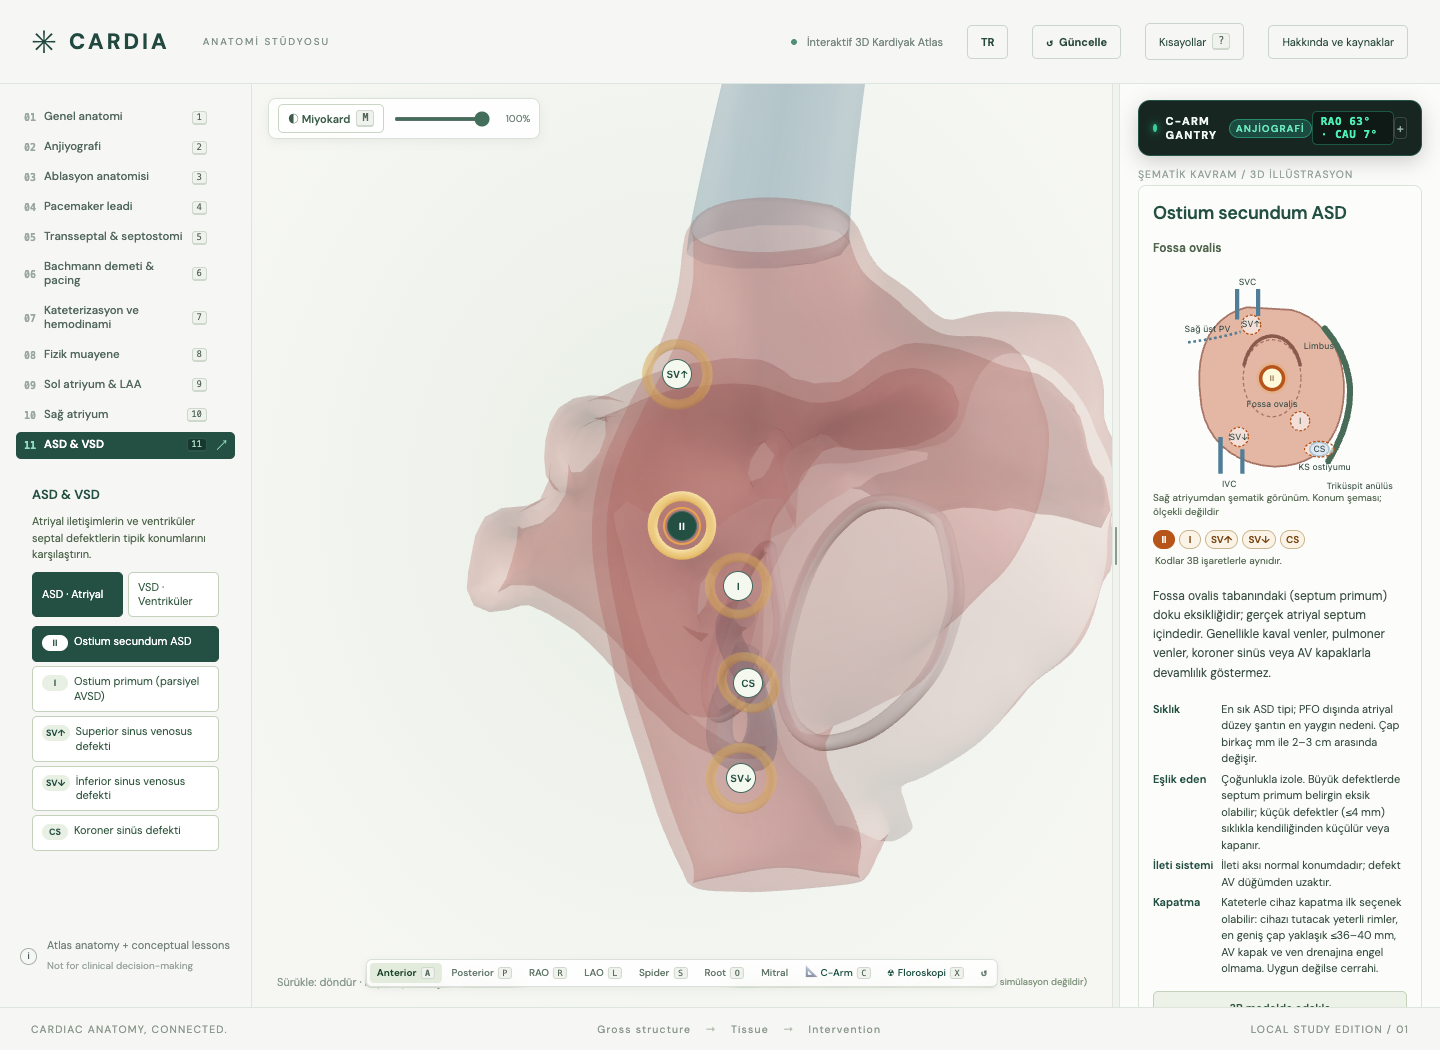
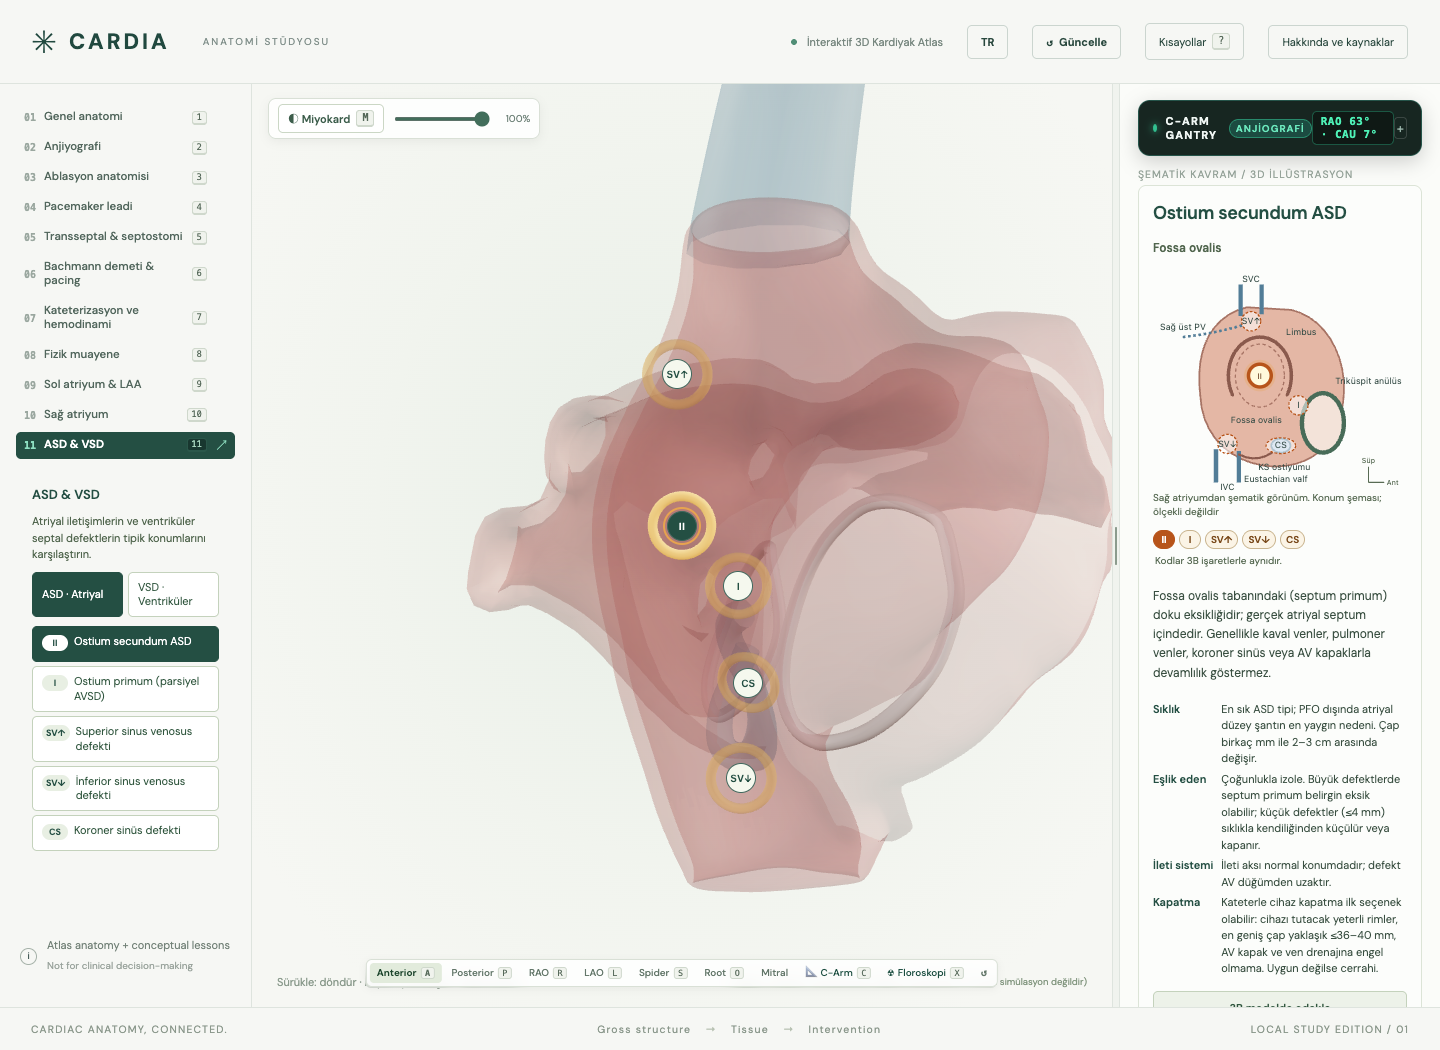
fix: correct landmark layout of the ASD and VSD septal maps
Atrial map (right lateral RA view, superior up, anterior right): tricuspid
orifice drawn anteroinferior inside the atrium instead of an arc outside it
reaching SVC level; CS ostium between the IVC and the tricuspid orifice one
septal isthmus from it; limbus a horseshoe around the fossa open toward the
IVC; primum defect on the AV valve margin; Eustachian valve and orientation
mark added.

Ventricular map (RV opened from the front): supraventricular crest clasped by
the septomarginal limbs, aortic root behind the membranous septum, moderator
band to the anterior papillary muscle, orientation mark; outlet site above the
crest under the pulmonary valve.

Changed region(s): [[0.8125, 0.2743, 0.9688, 0.4571], [0.9375, 0.4571, 0.9688, 0.4876]]

diff --git a/src/septal-defects-map.js b/src/septal-defects-map.js
@@ -2,21 +2,32 @@ import { DEFECT_TYPES } from './septal-defects-data.js';
 
 const NS = 'http://www.w3.org/2000/svg';
 export const MAP_WORDS = {
-  tr: { ra: 'Sağ atriyumdan şematik görünüm', rv: 'Sağ ventrikülden şematik görünüm', scale: 'Konum şeması; ölçekli değildir', svc: 'SVC', ivc: 'IVC', rupv: 'Sağ üst PV', fossa: 'Fossa ovalis', limbus: 'Limbus', tv: 'Triküspit anülüs', csOstium: 'KS ostiyumu', inlet: 'TV (giriş)', pv: 'Pulmoner kapak', aorta: 'Aort kökü (arkada)', membranous: 'Membranöz', moderator: 'Moderatör bant', trabecular: 'Trabeküler septum' },
-  en: { ra: 'Schematic right atrial view', rv: 'Schematic right ventricular view', scale: 'Location diagram; not to scale', svc: 'SVC', ivc: 'IVC', rupv: 'Right upper PV', fossa: 'Oval fossa', limbus: 'Limbus', tv: 'Tricuspid annulus', csOstium: 'CS ostium', inlet: 'TV (inlet)', pv: 'Pulmonary valve', aorta: 'Aortic root (behind)', membranous: 'Membranous', moderator: 'Moderator band', trabecular: 'Trabecular septum' },
+  tr: { ra: 'Sağ atriyumdan şematik görünüm', rv: 'Sağ ventrikülden şematik görünüm', scale: 'Konum şeması; ölçekli değildir', svc: 'SVC', ivc: 'IVC', rupv: 'Sağ üst PV', fossa: 'Fossa ovalis', limbus: 'Limbus', tv: 'Triküspit anülüs', csOstium: 'KS ostiyumu', eustachian: 'Eustachian valf', sup: 'Süp', ant: 'Ant', inlet: 'TV (giriş)', pv: 'Pulmoner kapak', aorta: 'Aort kökü (arkada)', membranous: 'Membranöz septum', moderator: 'Moderatör bant', trabecular: 'Trabeküler septum', crest: 'Supraventriküler krista', antPap: 'Ön papiller', left: 'Sol' },
+  en: { ra: 'Schematic right atrial view', rv: 'Schematic right ventricular view', scale: 'Location diagram; not to scale', svc: 'SVC', ivc: 'IVC', rupv: 'Right upper PV', fossa: 'Oval fossa', limbus: 'Limbus', tv: 'Tricuspid annulus', csOstium: 'CS ostium', eustachian: 'Eustachian valve', sup: 'Sup', ant: 'Ant', inlet: 'TV (inlet)', pv: 'Pulmonary valve', aorta: 'Aortic root (behind)', membranous: 'Membranous septum', moderator: 'Moderator band', trabecular: 'Trabecular septum', crest: 'Supraventricular crest', antPap: 'Ant. papillary', left: 'Left' },
 };
 
-/** Authored schematic placements (viewBox 0 0 290 248), not measured anatomy. */
+/**
+ * Authored schematic placements (viewBox 0 0 290 248), not measured anatomy.
+ * Atrial map: right lateral view of the opened RA, superior up, anterior to
+ * the right. Fossa central, limbus a horseshoe open toward the IVC, tricuspid
+ * orifice anteroinferior, CS ostium between the IVC and the tricuspid orifice
+ * one septal isthmus from it, primum defect on the AV valve margin.
+ */
 const SITES = {
-  'asd-secundum': { x: 136, y: 119 },
-  'asd-primum': { x: 168, y: 168 },
-  'asd-sinus-superior': { x: 112, y: 58 },
-  'asd-sinus-inferior': { x: 98, y: 186 },
-  'asd-coronary-sinus': { x: 190, y: 200, rx: 17, ry: 9 },
-  'vsd-perimembranous': { x: 128, y: 100 },
+  'asd-secundum': { x: 122, y: 116 },
+  'asd-primum': { x: 166, y: 150 },
+  'asd-sinus-superior': { x: 112, y: 54 },
+  'asd-sinus-inferior': { x: 85, y: 194 },
+  'asd-coronary-sinus': { x: 146, y: 196, rx: 17, ry: 9 },
+  // Ventricular map: RV opened from the front, superior up, patient's left
+  // to the right. Perimembranous between the septomarginal limbs under the
+  // crest (aortic root behind), inlet beneath the septal tricuspid leaflet,
+  // outlet directly under the pulmonary valve above the crest, muscular in
+  // the trabecular septum.
+  'vsd-perimembranous': { x: 128, y: 102 },
   'vsd-muscular': { x: 112, y: 182 },
-  'vsd-inlet': { x: 84, y: 126 },
-  'vsd-outlet': { x: 186, y: 64 },
+  'vsd-inlet': { x: 84, y: 128 },
+  'vsd-outlet': { x: 188, y: 62 },
 };
 
 function svg(tag, attrs, text) {
@@ -29,26 +40,48 @@ function svg(tag, attrs, text) {
 function atrialLandmarks(map, w) {
   const label = (x, y, text, anchor = 'middle') => map.append(svg('text', { x, y, 'text-anchor': anchor }, text));
   map.append(svg('path', { d: 'M107 38 C63 49 48 91 54 139 C56 186 90 218 139 220 C193 219 216 182 218 135 C220 89 194 49 158 41 Z', class: 'defect-map-tissue' }));
-  map.append(svg('path', { d: 'M96 17 L96 52 M120 17 L120 48 M77 186 L77 228 M102 200 L102 228', class: 'defect-map-vessel' }));
-  map.append(svg('path', { d: 'M40 78 Q72 74 100 66', class: 'defect-map-vessel defect-map-vessel-thin' }));
-  map.append(svg('ellipse', { cx: 136, cy: 119, rx: 33, ry: 44, class: 'defect-map-fossa' }));
-  map.append(svg('path', { d: 'M104 104 A33 44 0 0 1 168 104', class: 'defect-map-limbus' }));
-  map.append(svg('path', { d: 'M196 62 Q252 128 200 214', class: 'defect-map-junction' }));
-  map.append(svg('ellipse', { cx: 190, cy: 200, rx: 11, ry: 8, class: 'defect-map-sinus' }));
-  label(108, 13, w.svc); label(87, 243, w.ivc); label(36, 66, w.rupv, 'start'); label(136, 152, w.fossa);
-  label(172, 86, w.limbus, 'start'); label(236, 245, w.tv); label(196, 224, w.csOstium);
+  // Caval veins: SVC superior (slightly posterior), IVC posteroinferior.
+  map.append(svg('path', { d: 'M100 12 L100 48 M124 12 L124 46 M72 200 L72 238 M98 202 L98 238', class: 'defect-map-vessel' }));
+  map.append(svg('path', { d: 'M34 72 Q70 68 104 58', class: 'defect-map-vessel defect-map-vessel-thin' }));
+  // Tricuspid orifice: anteroinferior, inside the atrial outline.
+  map.append(svg('ellipse', { cx: 194, cy: 170, rx: 24, ry: 34, class: 'defect-map-orifice' }));
+  // Oval fossa and its limbus: a horseshoe over the superior, anterior and
+  // posterior margins, open inferiorly toward the IVC.
+  map.append(svg('ellipse', { cx: 122, cy: 116, rx: 28, ry: 36, class: 'defect-map-fossa' }));
+  map.append(svg('path', { d: 'M90.8 138 A36 44 0 1 1 153.2 138', class: 'defect-map-limbus' }));
+  // Eustachian valve guards the IVC mouth and runs toward the CS ostium,
+  // which sits between the IVC and the tricuspid orifice.
+  map.append(svg('path', { d: 'M98 206 Q118 216 136 204', class: 'defect-map-valve' }));
+  map.append(svg('ellipse', { cx: 146, cy: 196, rx: 11, ry: 8, class: 'defect-map-sinus' }));
+  label(112, 9, w.svc); label(85, 247, w.ivc); label(8, 64, w.rupv, 'start'); label(118, 170, w.fossa);
+  label(152, 70, w.limbus, 'start'); label(246, 126, w.tv); label(150, 224, w.csOstium); label(104, 238, w.eustachian, 'start');
+  // Orientation.
+  map.append(svg('path', { d: 'M246 238 L246 220 M246 238 L264 238', class: 'defect-map-axis' }));
+  map.append(svg('text', { x: 246, y: 216, 'text-anchor': 'middle', class: 'defect-map-axis-label' }, w.sup));
+  map.append(svg('text', { x: 267, y: 241, 'text-anchor': 'start', class: 'defect-map-axis-label' }, w.ant));
 }
 
 function ventricularLandmarks(map, w) {
   const label = (x, y, text, anchor = 'middle') => map.append(svg('text', { x, y, 'text-anchor': anchor }, text));
   map.append(svg('path', { d: 'M79 79 Q128 45 192 40 Q236 79 221 149 Q198 216 143 227 Q84 207 59 149 Q48 114 79 79 Z', class: 'defect-map-tissue' }));
-  map.append(svg('path', { d: 'M108 84 Q128 108 132 140 L128 200 M180 70 Q150 100 132 140 M128 175 L205 160', class: 'defect-map-band' }));
-  map.append(svg('ellipse', { cx: 150, cy: 84, rx: 16, ry: 11, class: 'defect-map-fossa' }));
-  map.append(svg('ellipse', { cx: 128, cy: 100, rx: 13, ry: 10, class: 'defect-map-membranous' }));
-  map.append(svg('path', { d: 'M56 134 Q60 84 112 72', class: 'defect-map-junction' }));
+  // Aortic root behind the membranous septum (seen through the crest region).
+  map.append(svg('ellipse', { cx: 128, cy: 92, rx: 27, ry: 19, class: 'defect-map-fossa' }));
+  map.append(svg('ellipse', { cx: 128, cy: 102, rx: 13, ry: 10, class: 'defect-map-membranous' }));
+  // Septomarginal trabeculation: body down the septum, limbs clasping the
+  // supraventricular crest; moderator band to the anterior papillary muscle.
+  map.append(svg('path', { d: 'M104 88 Q126 112 132 140 L128 200 M176 78 Q150 104 132 140 M128 175 L204 162', class: 'defect-map-band' }));
+  map.append(svg('path', { d: 'M104 88 Q140 60 176 78', class: 'defect-map-crest' }));
+  map.append(svg('ellipse', { cx: 212, cy: 160, rx: 9, ry: 14, class: 'defect-map-papillary' }));
+  // Tricuspid (inlet) and pulmonary (outlet) valves.
+  map.append(svg('path', { d: 'M56 134 Q60 86 104 76', class: 'defect-map-junction' }));
   map.append(svg('path', { d: 'M160 46 Q190 28 216 56', class: 'defect-map-junction defect-map-outflow' }));
-  label(36, 44, w.inlet, 'start'); label(200, 22, w.pv); label(126, 62, w.aorta);
-  label(166, 104, w.membranous, 'start'); label(214, 150, w.moderator, 'start'); label(150, 240, w.trabecular);
+  map.append(svg('path', { d: 'M104 62 L118 92', class: 'defect-map-leader' }));
+  label(4, 100, w.inlet, 'start'); label(200, 22, w.pv); label(92, 40, w.crest);
+  label(60, 58, w.membranous, 'start'); label(168, 116, w.aorta, 'start');
+  label(142, 202, w.moderator, 'start'); label(224, 140, w.antPap, 'start'); label(150, 242, w.trabecular);
+  map.append(svg('path', { d: 'M246 238 L246 220 M246 238 L264 238', class: 'defect-map-axis' }));
+  map.append(svg('text', { x: 246, y: 216, 'text-anchor': 'middle', class: 'defect-map-axis-label' }, w.sup));
+  map.append(svg('text', { x: 267, y: 241, 'text-anchor': 'start', class: 'defect-map-axis-label' }, w.left));
 }
 
 /** Schematic septal map: all sites of the family, the selected one opened. */

diff --git a/src/septal-defects.css b/src/septal-defects.css
@@ -30,6 +30,13 @@
 .defect-panel .defect-map-code{font:600 8px system-ui,sans-serif;fill:#8a4a20}
 .defect-panel .defect-map-code.selected{font-size:9px;fill:#5a2f10}
 .defect-panel .defect-map-glow{fill:#e7a34f;fill-opacity:.28;stroke:none}
+.defect-panel .defect-map-orifice{fill:#f3e3d9;stroke:#486c58;stroke-width:5}
+.defect-panel .defect-map-valve{fill:none;stroke:#8a5a4d;stroke-width:2.5;stroke-linecap:round}
+.defect-panel .defect-map-axis{fill:none;stroke:#586b54;stroke-width:1.3}
+.defect-panel .defect-map .defect-map-axis-label{font-size:8px;fill:#586b54}
+.defect-panel .defect-map-crest{fill:none;stroke:#b87a66;stroke-width:9;stroke-linecap:round;opacity:.9}
+.defect-panel .defect-map-papillary{fill:#c9927f;stroke:#8a5a4d;stroke-width:1.5}
+.defect-panel .defect-map-leader{fill:none;stroke:#586b54;stroke-width:1}
 .defect-panel .defect-map-hole{fill:#fff9dc;stroke:#b7541a;stroke-width:4}
 .defect-panel .defect-legend{display:flex;flex-wrap:wrap;gap:4px;align-items:center;font-size:10px;color:#586b54}
 .defect-panel .defect-legend-chip{display:inline-block;min-width:22px;padding:1px 5px;border:1px solid #c9b48f;border-radius:10px;background:#fbf4e6;color:#7a4a1c;text-align:center;font-weight:600}

diff --git a/research/SEPTAL_DEFECTS.md b/research/SEPTAL_DEFECTS.md
@@ -25,6 +25,12 @@ Atlas axes: +x patient left, +y superior, +z anterior. "Septal contact" is the R
 
 These are broad teaching categories. Geography and border classification overlap, particularly for inlet/outlet VSD. Shared AV junction defects belong to the AVSD category. PFO is not presented as a tissue-deficiency ASD. Shunt direction is conditional, not fixed; the view does not calculate pressures, vascular resistance or flows.
 
+## 2D atrial map (revision 3)
+
+The atrial map is a right lateral view of the opened RA, superior up and anterior to the right, with a small orientation mark. Fossa central; limbus a horseshoe over the superior, anterior and posterior fossa margins, open inferiorly toward the IVC; SVC superior, IVC posteroinferior with the Eustachian valve; tricuspid orifice anteroinferior inside the atrial outline (previously drawn as an arc outside the atrium reaching SVC level); CS ostium between the IVC and the tricuspid orifice, one septal isthmus from it (previously touching the annulus); primum defect on the AV valve margin, anteroinferior to the fossa; superior and inferior sinus venosus at the caval mouths. Positions are authored, not measured.
+
+The ventricular map is the RV opened from the front, superior up and the patient's left to the right. It now shows the supraventricular crest between the tricuspid and pulmonary valves, clasped by the limbs of the septomarginal trabeculation; the aortic root behind the membranous septum; and the moderator band reaching the anterior papillary muscle. Perimembranous sits between the limbs under the crest, inlet beneath the septal tricuspid leaflet, outlet directly under the pulmonary valve above the crest, muscular in the trabecular septum.
+
 ## Clinical summary fields
 
 Per category, `prevalence`, `associations`, `conduction` and `closure` are short bilingual paraphrases of the cited reviews:
